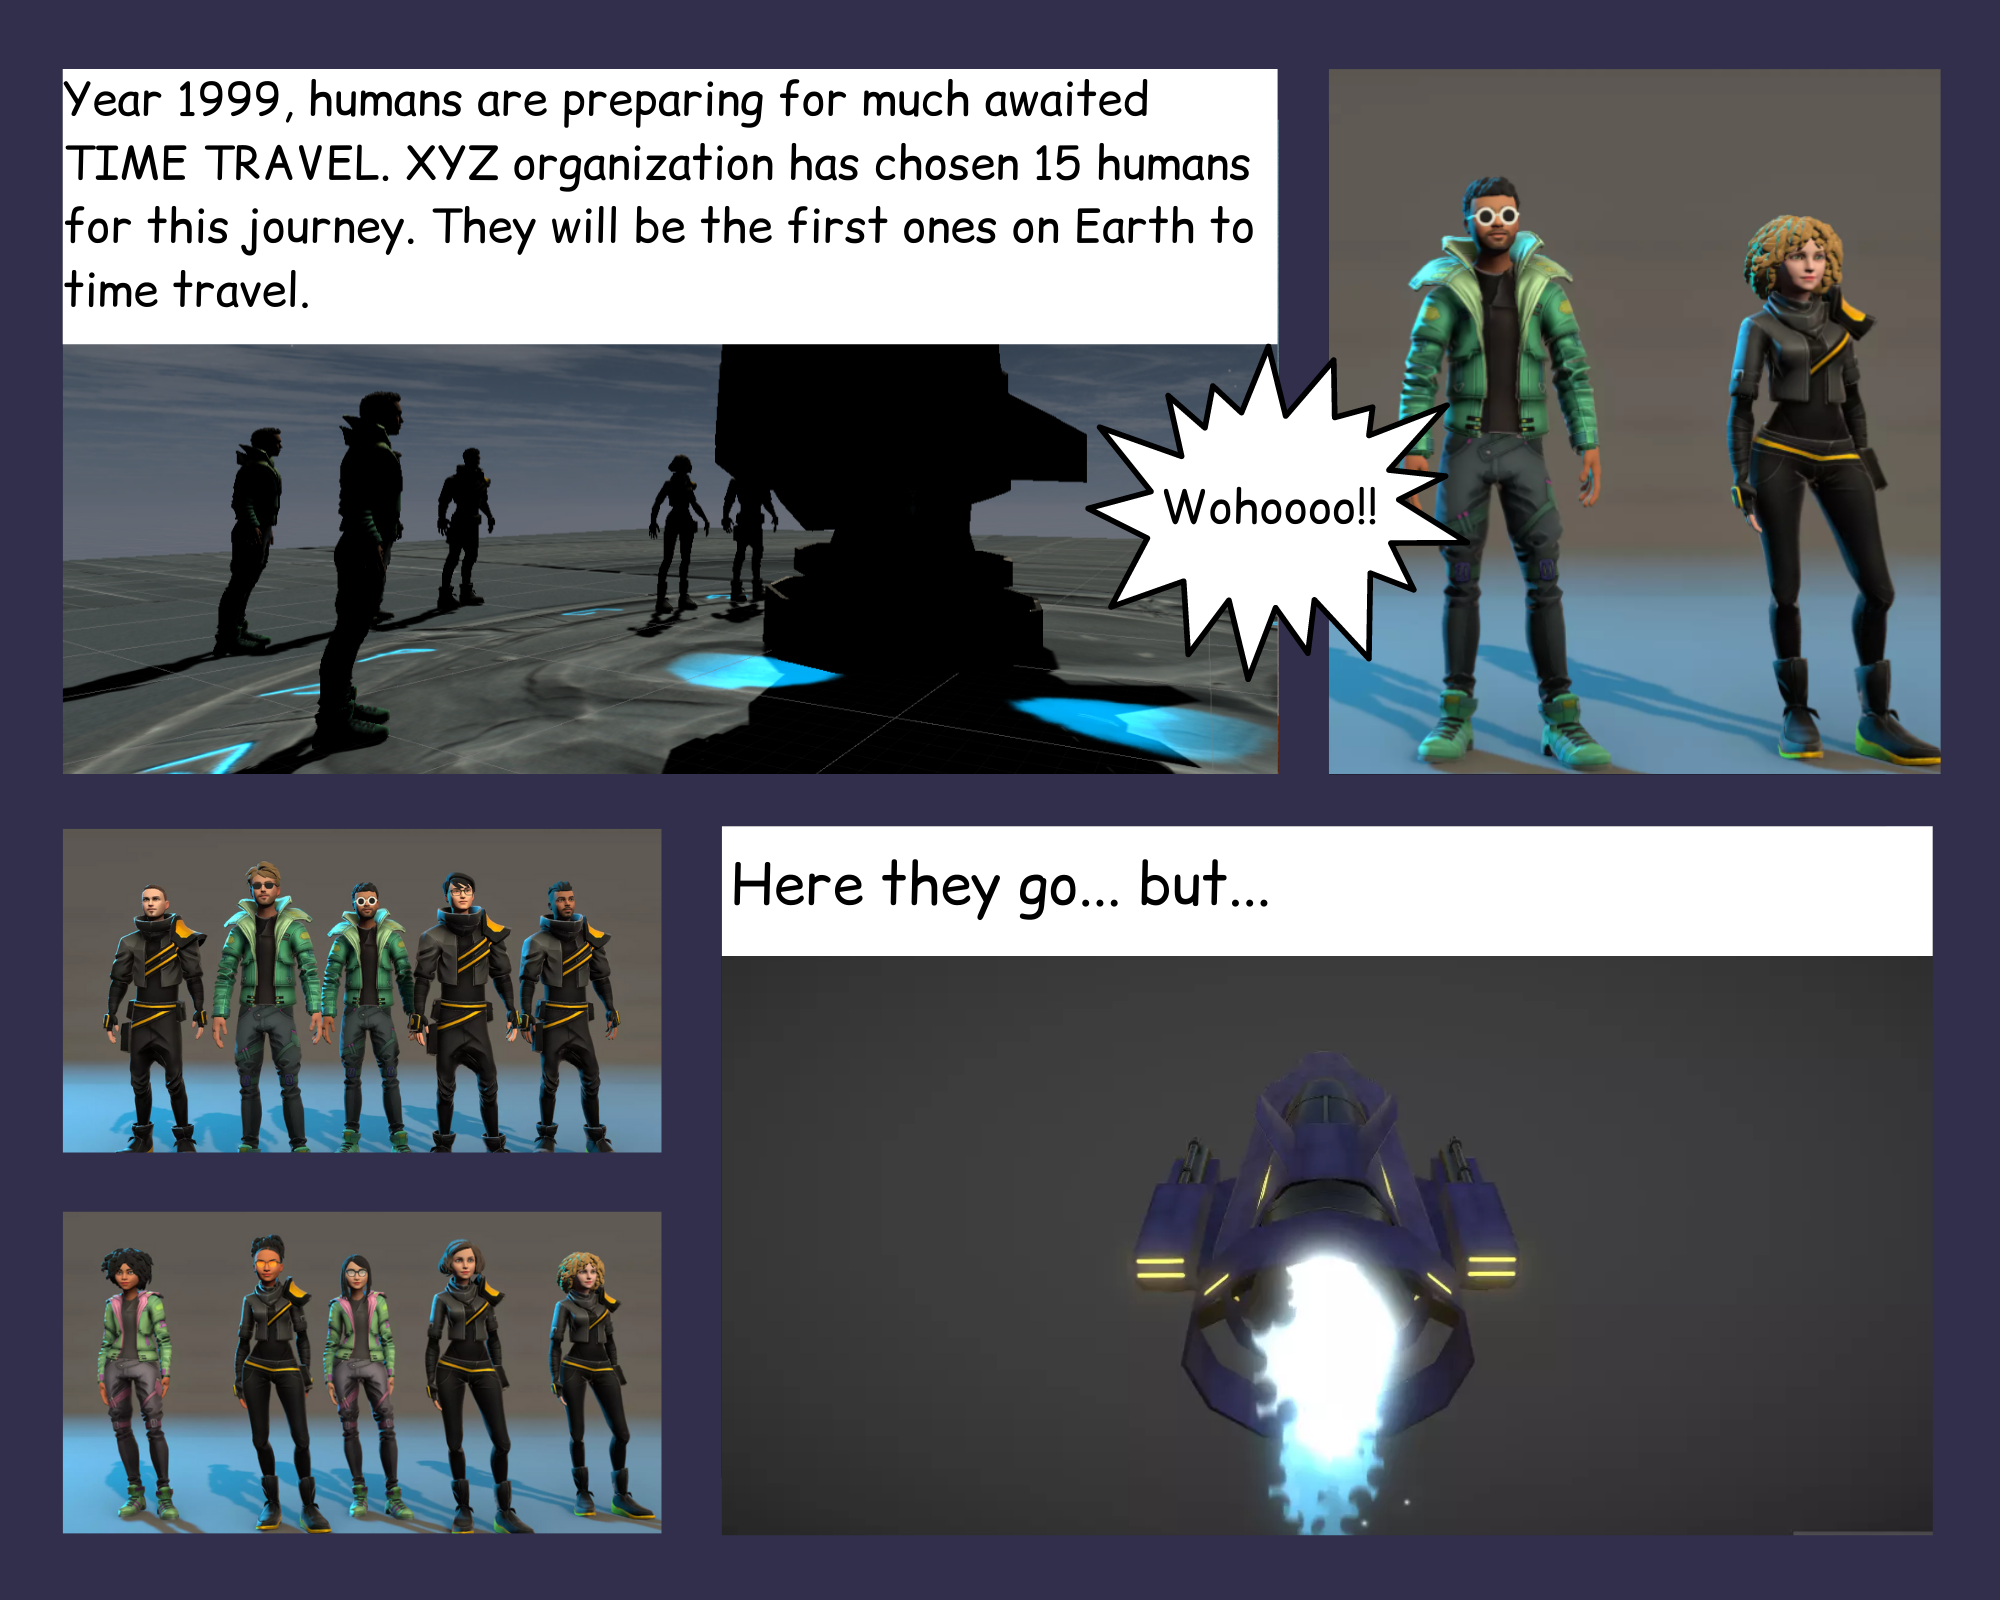
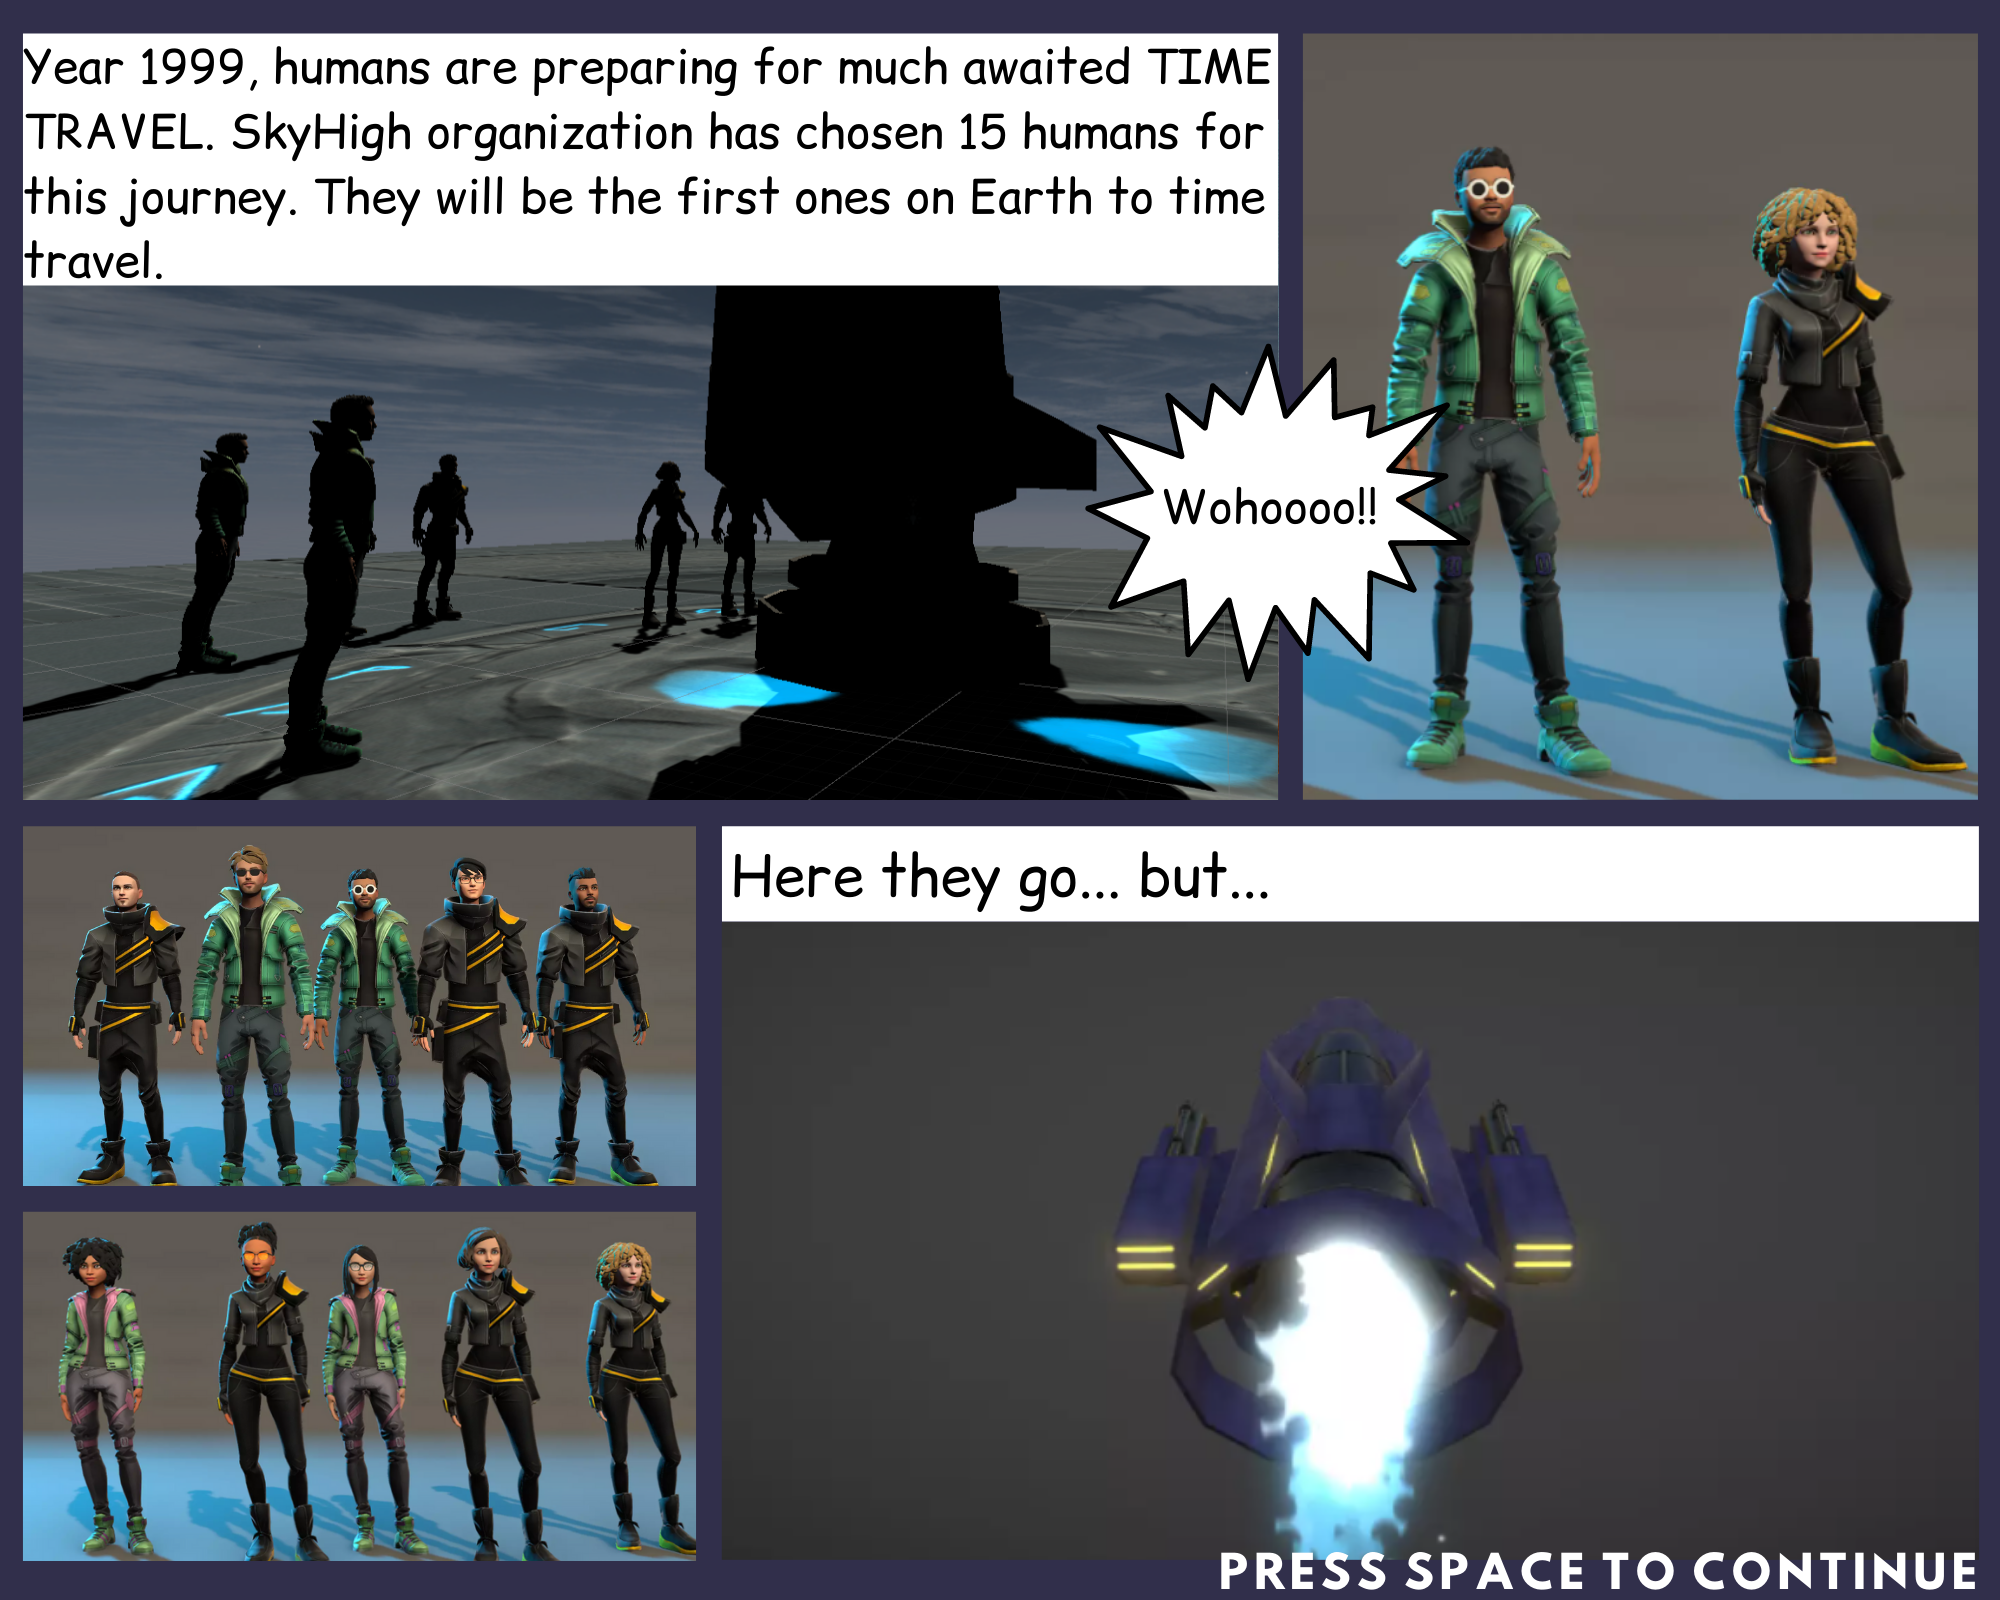
Comic strip modified

diff --git a/Assets/Scripts/ComicStrip.cs b/Assets/Scripts/ComicStrip.cs
@@ -23,19 +23,19 @@ public class ComicStrip : MonoBehaviour
     // Update is called once per frame
     void Update()
     {
-        if((canvas1.GetComponent<Canvas> ().enabled == true) && (Input.GetButtonDown("tab"))){
+        if((canvas1.GetComponent<Canvas> ().enabled == true) && (Input.GetButtonDown("space"))){
             canvas1.GetComponent<Canvas> ().enabled = false;
             canvas2.GetComponent<Canvas> ().enabled = true;
         }
-        else if((canvas2.GetComponent<Canvas> ().enabled == true) && (Input.GetButtonDown("tab"))){
+        else if((canvas2.GetComponent<Canvas> ().enabled == true) && (Input.GetButtonDown("space"))){
             canvas2.GetComponent<Canvas> ().enabled = false;
             canvas3.GetComponent<Canvas> ().enabled = true;
         }
-        else if((canvas3.GetComponent<Canvas> ().enabled == true) && (Input.GetButtonDown("tab"))){
+        else if((canvas3.GetComponent<Canvas> ().enabled == true) && (Input.GetButtonDown("space"))){
             canvas3.GetComponent<Canvas> ().enabled = false;
             canvas4.GetComponent<Canvas> ().enabled = true;
         }
-        else if((canvas4.GetComponent<Canvas> ().enabled == true) && (Input.GetButtonDown("tab"))){
+        else if((canvas4.GetComponent<Canvas> ().enabled == true) && (Input.GetButtonDown("space"))){
             //canvas4.GetComponent<Canvas> ().enabled = false;
             SceneManager.LoadScene(SceneManager.GetActiveScene().buildIndex + 1);
         }
